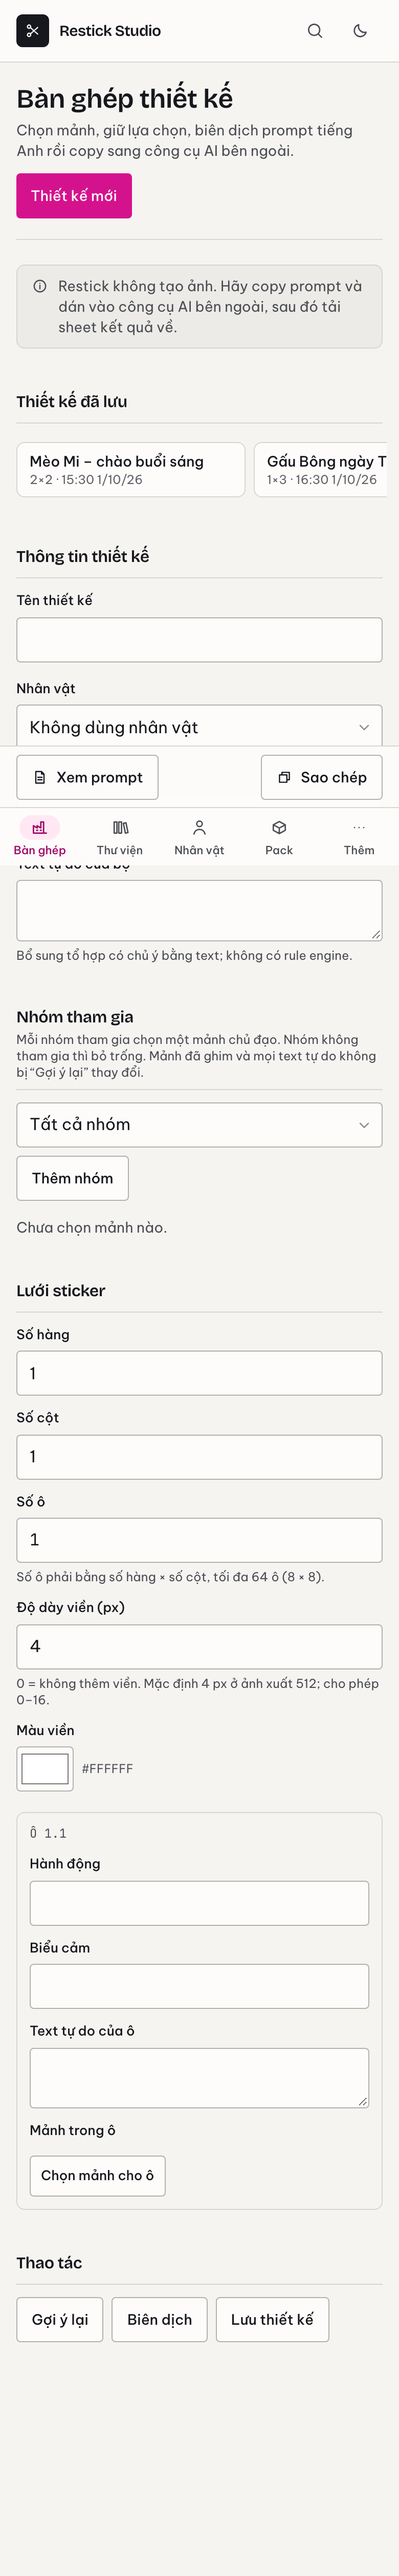
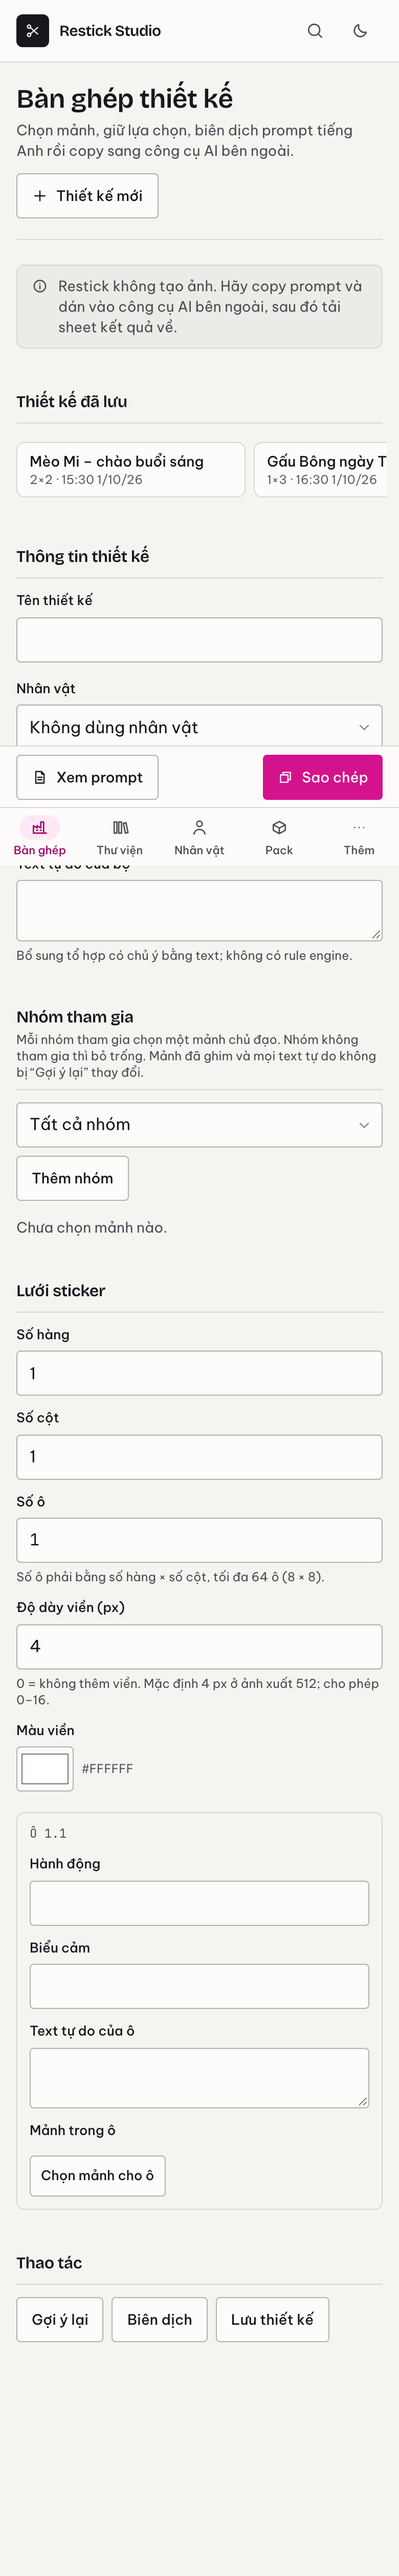
fix(web): palette/dialog autofocus, keys overflow, single primary on factory; add interaction + axe QA

Changed region(s): [[0.6462, 0.2812, 0.9538, 0.3125], [0.0308, 0.0625, 0.3385, 0.0938]]

diff --git a/clients/web-next/components/command-palette.tsx b/clients/web-next/components/command-palette.tsx
@@ -19,6 +19,13 @@ export function CommandPalette({ commands, onClose }: { commands: Command[]; onC
   const [query, setQuery] = useState("");
   const [index, setIndex] = useState(0);
   const listRef = useRef<HTMLUListElement>(null);
+  const inputRef = useRef<HTMLInputElement>(null);
+
+  // The native dialog opens in a parent effect, so focus after it is open.
+  useEffect(() => {
+    const id = window.setTimeout(() => inputRef.current?.focus(), 0);
+    return () => window.clearTimeout(id);
+  }, []);
 
   const results = useMemo(() => {
     const q = query.trim().toLowerCase();
@@ -54,7 +61,7 @@ export function CommandPalette({ commands, onClose }: { commands: Command[]; onC
         <div className="relative">
           <Icon name="search" size={16} className="pointer-events-none absolute left-3 top-1/2 -translate-y-1/2 text-ink-3" />
           <input
-            autoFocus
+            ref={inputRef}
             role="combobox"
             aria-expanded="true"
             aria-controls="cmd-list"

diff --git a/clients/web-next/app/factory/page.tsx b/clients/web-next/app/factory/page.tsx
@@ -224,7 +224,7 @@ function FragmentPicker({
           value={query}
           onChange={(event) => setQuery(event.target.value)}
           className={inputClass}
-          autoFocus
+          data-autofocus
         />
       </Field>
       <div className="mt-3 max-h-72 space-y-0.5 overflow-y-auto">
@@ -453,6 +453,8 @@ function Factory() {
         subtitle={t("factorySubtitle")}
         actions={
           <Button
+            variant="secondary"
+            icon="plus"
             disabled={editorBusy}
             onClick={() => {
               setState(blankState());
@@ -888,7 +890,7 @@ function Factory() {
         <Button variant="secondary" icon="docs" onClick={() => setPromptSheetOpen(true)}>
           {t("facViewPrompt")}
         </Button>
-        <CopyButton text={compiledPrompt} />
+        <CopyButton text={compiledPrompt} variant="primary" />
       </div>
       <div aria-hidden="true" className="h-24 lg:hidden" />
 

diff --git a/clients/web-next/app/keys/page.tsx b/clients/web-next/app/keys/page.tsx
@@ -181,7 +181,7 @@ function Keys() {
       ) : list.length > 0 ? (
         <>
           {/* Desktop: a ruled table. */}
-          <div className="hidden overflow-x-auto border-y border-line md:block">
+          <div className="relative hidden overflow-x-auto border-y border-line md:block">
             <table className="w-full min-w-[46rem] text-left text-sm">
               <thead className="border-b border-line text-xs font-medium text-ink-3">
                 <tr>

diff --git a/clients/web-next/components/ui.tsx b/clients/web-next/components/ui.tsx
@@ -532,6 +532,8 @@ export function Dialog({
   useEffect(() => {
     const dialog = ref.current;
     if (dialog && !dialog.open) dialog.showModal();
+    // React autoFocus fires before the dialog is open; honour data-autofocus here.
+    dialog?.querySelector<HTMLElement>("[data-autofocus]")?.focus();
     return () => {
       if (dialog?.open) dialog.close();
     };

diff --git a/docs/redesign/ROADMAP.md b/docs/redesign/ROADMAP.md
@@ -7,28 +7,30 @@ Evidence: `docs/redesign/screens/before|after/` (10 routes x 1440/1280/768/390, 
 - **Rendered** = loaded in headless Chromium against the fixture mock at 4 widths, 0 failed requests, 0 detector findings.
 - **Interacted / audited** = states, keyboard, contrast actually exercised. Not yet done unless ticked.
 
+## Verification summary (latest run)
+- `node qa/shoot.mjs after`: 10 routes x 4 widths, 0 failed requests, 0 horizontal overflow, 0 detector findings.
+- `node qa/interact.mjs`: **77/77 steps passed**, including axe-core (WCAG 2.0/2.1/2.2 A+AA) with zero violations on 8 routes in light and dark at 1440 and 390.
+- Bugs found and fixed by this sweep: `/keys` 768px overflow (sr-only inside non-relative scroller); ⌘K palette and factory fragment picker did not receive typing (React `autoFocus` fires before native `<dialog>` opens; `Dialog` now honours `data-autofocus`); two magenta primaries on `/factory` (now Copy only).
+
 ## Routes
 | Route | Implemented | Rendered 4 widths | Interacted / audited |
 |---|---|---|---|
-| shell (rail, tabs, ⌘K, theme) | yes | yes (via every route) | no |
-| `/login` | yes | yes | no |
+| shell (rail, tabs, ⌘K, theme) | yes | yes | palette, theme persistence, skip link, axe |
+| `/login` | yes | yes | wrong-password alert |
 | `/` splash | yes | n/a (redirect) | no |
-| `/factory` | yes | yes | no |
-| `/library` | yes | yes | no |
-| `/characters` | yes | yes | no |
-| `/packs` | yes | yes | no |
-| `/packs/new` | yes | yes | no |
-| `/packs/detail` (draft) | yes | yes | no |
-| `/packs/detail` ready / revoked / failed job | yes | **not shot** | no |
-| `/keys` | yes | yes (768px reports document overflow) | no |
-| `/api-docs` | frame only | yes | no |
+| `/factory` | yes | yes | axe, mobile sticky bar viewport check, dark |
+| `/library` | yes | yes | create drawer + Esc, axe, dark |
+| `/characters` | yes | yes | axe, dark (forms not exercised) |
+| `/packs` | yes | yes | empty/error/slow states, axe |
+| `/packs/new` | yes | yes | empty-submit validation, axe |
+| `/packs/detail` draft / ready / revoked | yes | draft only (ready/revoked shot at 1440) | delete confirm, axe |
+| `/keys` | yes | yes | create + one-time secret, disable confirm, axe |
+| `/api-docs` | frame only | yes | axe |
 | 404 | yes | yes | no |
 
-## Open items (next session starts here)
-1. Fix `/keys` 768px horizontal overflow.
-2. Exercise: dialogs/drawers, forms and validation, delete/revoke confirms, key secret reveal, palette keyboard flow, mock scenarios `empty`/`error`/`slow`/`loggedout`.
-3. Dark theme visual pass on every route.
-4. Contrast and keyboard audit (Impeccable `audit`), then `critique`, `polish`, `harden`, `adapt` passes.
-5. Viewport (not full-page) check of mobile sticky prompt bar on `/factory` against the bottom tab bar.
-6. Two unused-variable lint warnings (`stickers`, `data`) in page sources.
-7. Known limit: `/api-docs` inner document is Go-served `/docs`, outside this frontend.
+## Not verified / open
+1. Real-backend behaviour (all checks use the fixture mock; `/v1/*` not mocked).
+2. Character create/edit/upload, pack source upload, job `failed`/`interrupted` views, rotate-key flow: implemented, not exercised.
+3. Screen-reader pass and real-device (iOS Safari) check.
+4. Two unused-variable lint warnings in page sources.
+5. `/api-docs` inner document is Go-served `/docs`, outside this frontend.

diff --git a/clients/web-next/qa/README.md b/clients/web-next/qa/README.md
@@ -12,3 +12,6 @@ Test-only: a mock of the admin API + static export, and a screenshot sweep. Not 
 - The sweep logs in with `POST /api/v1/admin/session`; the `/login` route is shot logged out. It refuses 127.0.0.1:8080 (the real instance).
 - Seeded pack ids: `pk-draft-1` (running job), `pk-ready-1`, `pk-revoked-1`. Detail route: `/packs/detail?id=pk-draft-1`.
 - Regenerate the pristine baseline: `git archive 2a4f07b clients/web-next | tar -x -C <scratch>`, `cp -cR <worktree>/clients/web-next/node_modules <scratch>/clients/web-next/` (a symlink breaks Turbopack), `npx next build`, then `STATIC_DIR=<scratch>/clients/web-next/out node qa/mock-server.mjs "" 4501`.
+
+## Interaction / a11y sweep
+`node qa/interact.mjs [baseUrl]` (mock running): login error, ⌘K palette, theme persistence, skip link, key create/confirm, library drawer, validation, pack states, dark + mobile viewport shots, empty/error/slow scenarios, axe-core WCAG 2.x AA on 8 routes x light/dark x 1440/390. Shots go to `docs/redesign/screens/states/`.
